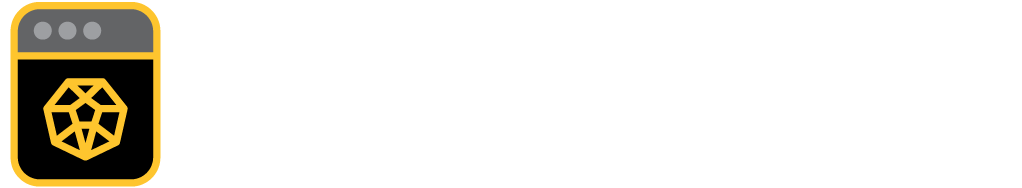
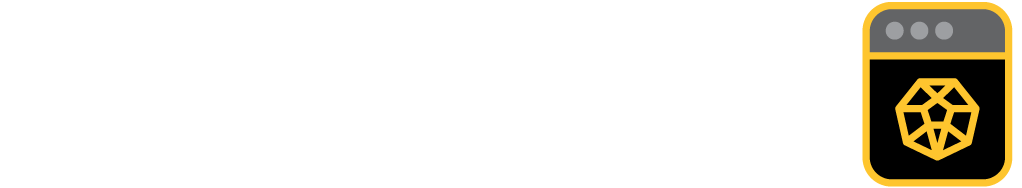
powers

Changed region(s): [[0.819, 0.0, 1.0, 1.0], [0.0, 0.0, 0.182, 1.0]]

diff --git a/0home.html b/0home.html
@@ -22,12 +22,12 @@
 		<img src="images/0map.png" alt="map" style="width:100%">
 	</div>
 
-	<div id="text">
+	<div id="welcome">
 		<div id="map_click">
 			<div id="map_icon"><a href="0map.html"><img src="images/map_icon.png" alt="map_icon" style="width:100%"></a></div>
 			<div id="hover"><a href="0map.html"><img src="images/map_icon_text.png" alt="map_icon" style="width:100%"></a></div>
 		</div>
-		<div id="welcome"><img src="images/text1.png" alt="text1" style="width:100%" class="center"></div>
+		<div id="text"><img src="images/text1.png" alt="text1" style="width:100%" class="center"></div>
 		<img src="images/blob1.png" alt="blob" style="width:100%" class="center">
 	</div>
 </div>
@@ -200,7 +200,7 @@
 </div>
 
 <div id="stat_text">
-	<div><img src="images/scroll_blank.png" alt="scroll" style="width:100%"></div>
+	<img src="images/blob3.png" alt="blob" style="width:100%" class="center">
 	<div id="text">
 		<img src="images/text5.png" alt="text5" style="width:100%" class="center">
 	</div>
@@ -216,7 +216,8 @@
 		<div id="hover"><a href="#"><img src="images/power_icon_text.png" alt="power_icon" style="width:100%"></a></div>
 	</div>
 	<div id="text">
-		<img src="images/blank.png" alt="blank" style="width:100%" class="center">
+		<div id="power_windows"><a href="#"><img src="images/power_windows.png" alt="power_icon" style="width:100%"></a></div>
+		<div id="hover"><a href="#"><img src="images/power_windows_annotations.png" alt="power_icon" style="width:100%"></a></div>
 	</div>
 </div>
 

diff --git a/0homestyle.css b/0homestyle.css
@@ -41,14 +41,10 @@ html{
 
 #text{
 	object-fit: contain;
-	padding: 10px;
+	padding-left: 10px;
 }
 
-#welcome{
-	padding-top: 20px;
-}
-
-#characters, #friendships, #missions, #stats, #powers, #friendship_annotation{
+#characters, #friendships, #missions, #stats, #powers, #power_gems, #friendship_annotation{
 	padding: 10px;
 	object-fit: contain;
 }
@@ -57,12 +53,12 @@ html{
 	position: relative;
 }
 
-#map_icon, #character_icon, #friendship_icon, #mission_icon, #stat_icon, #stat_window, #power_icon, #instagram_icon{
+#map_icon, #character_icon, #friendship_icon, #mission_icon, #stat_icon, #stat_window, #power_icon, #power_windows, #instagram_icon{
 	position: absolute;
 	z-index: -1;
 }
 
-#hover{
+#hover, #power_windows_annotation{
 	z-index: 1;
 	position: relative;
 	opacity: 0;
